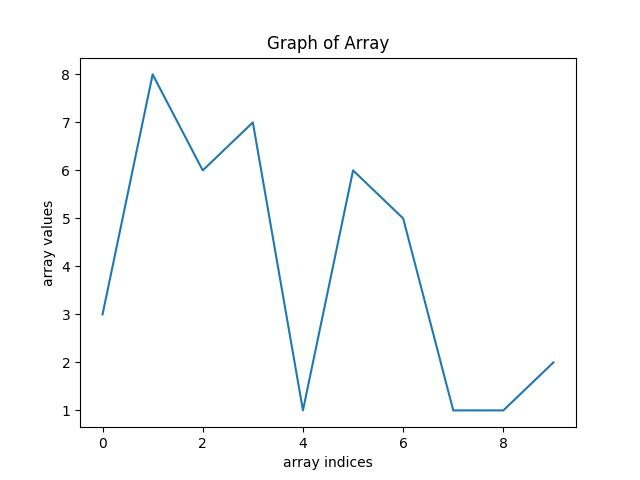
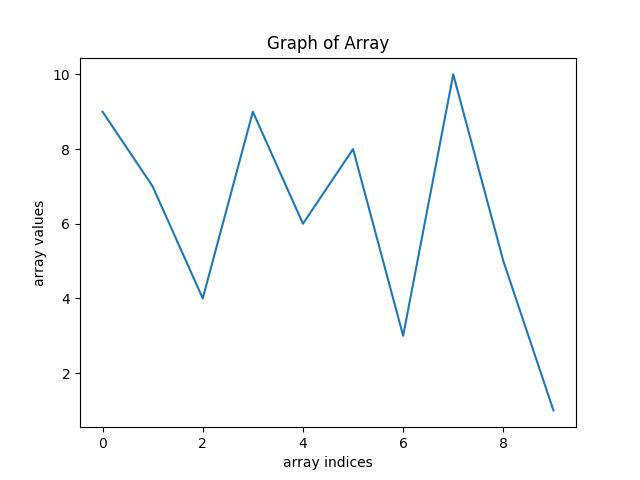
finish task7, clean up comments on other files

diff --git a/homework1/task7.py b/homework1/task7.py
@@ -8,17 +8,20 @@ import matplotlib.pyplot as plt
 # in this program, we'll create a random array using numpy and plot it using matplotlib.
 # for pytest, we'll check array length, type, and max and min.
 
+# creates array with np; recieves length of array, returns np array
 def create_random_array(length):
     # create array according to passed length of random numbers ranging from 1 to 10 using list comprehension 
     an_array = np.array([random.randint(1,10) for x in range(length)])
     return an_array
 
+# count items in array; receives np array, returns length as int
 def count_array_length(a):
     length = 0
     for x in a:
         length += 1
     return length
 
+# finds the max value of array; receives np array, returns max value of np array
 def find_max(a):
     max = a[0]
     for x in range(1, len(a)):
@@ -27,6 +30,7 @@ def find_max(a):
 
     return max
 
+# finds the min value of array; receives np array, returns min value of np array
 def find_min(a):
     min = a[0]
     for x in range(1, len(a)):
@@ -35,18 +39,38 @@ def find_min(a):
 
     return min
 
+# plots an np array as a graph; recieves np array
 def plot(a):
     plt.plot(a)
-    plt.xlabel("array indices")
-    plt.ylabel("array values")
+    plt.xlabel("Array indices")
+    plt.ylabel("Array values")
     plt.title("Graph of Array")
     # save plot to output file, tried to do plt.show() but didnt work...
     plt.savefig("output_graph.jpg")
 
+# test w/ pytest
+class TestClass:
+    test_array = create_random_array(10)
+    
+    # test array func
+    def test_create_array_func(self):
+        assert type(self.test_array) == type(np.array([1, 2, 3]))
+
+    # test count length func with np's built-in size func
+    def test_length_func(self):
+        assert np.size(self.test_array) == count_array_length(self.test_array)
+
+    # test max func with np's built-in max func
+    def test_max_func(self):
+        assert np.max(self.test_array) == find_max(self.test_array)
+
+    # test min func with np's built-in min func
+    def test_min_func(self):
+        assert np.min(self.test_array) == find_min(self.test_array)
 
 
 
-
+'''
 my_array = create_random_array(10)
 a_length = count_array_length(my_array)
 a_max = find_max(my_array)
@@ -57,3 +81,4 @@ print(a_length)
 print(a_max)
 print(a_min)
 plot(my_array)
+'''

diff --git a/homework1/task5.py b/homework1/task5.py
@@ -11,6 +11,7 @@ favorite_books = ["Alias Grace by Margaret Atwood", "Milkweed by Jerry Spinelli"
 # dictionary of basic student database
 student_database = {"John Doe": 1234, "Jane Doe": 5678, "Piper DeHoyos": 9999, "Harry Styles": 1111, "Rami Malek": 2323, "Light Yagami": 4444}
 
+# returns first 3 items from a list using list slicing; recieves a list
 def first_three_items(a_list):
     return a_list[:3]
 

diff --git a/homework1/task6.py b/homework1/task6.py
@@ -11,6 +11,7 @@ modify, or create other code. In other words, metaprogramming is a way of writin
 import string
 import os
 
+# counts words in a txt file; receives a file object, returns word count 
 def count_words_in_file(filename):
 
     word_count = 0

diff --git a/homework1/task1.py b/homework1/task1.py
@@ -1,3 +1,7 @@
+"""
+This program prints a string on the console and uses pytest to verify the output.
+"""
+
 def say_hi():
     return "Hello, World!"
 
